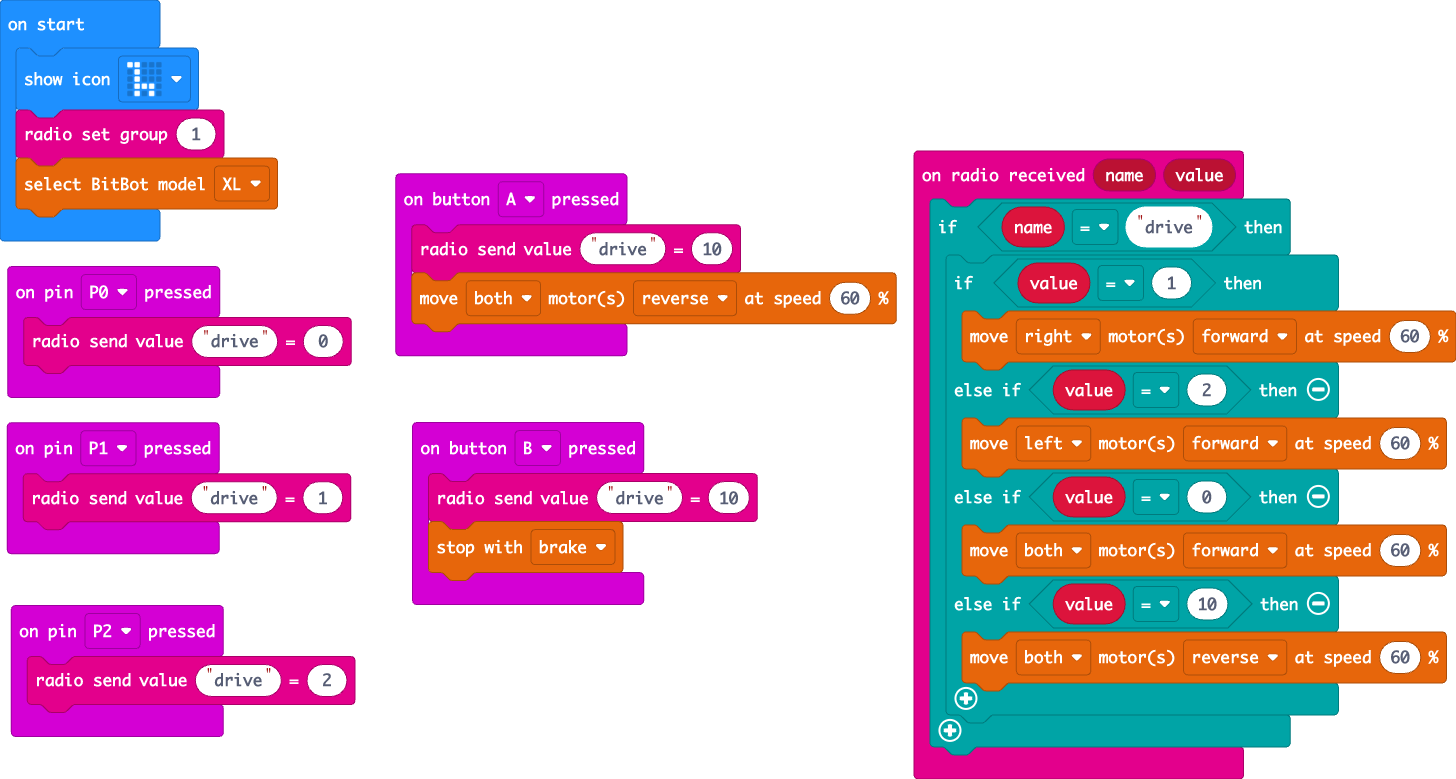
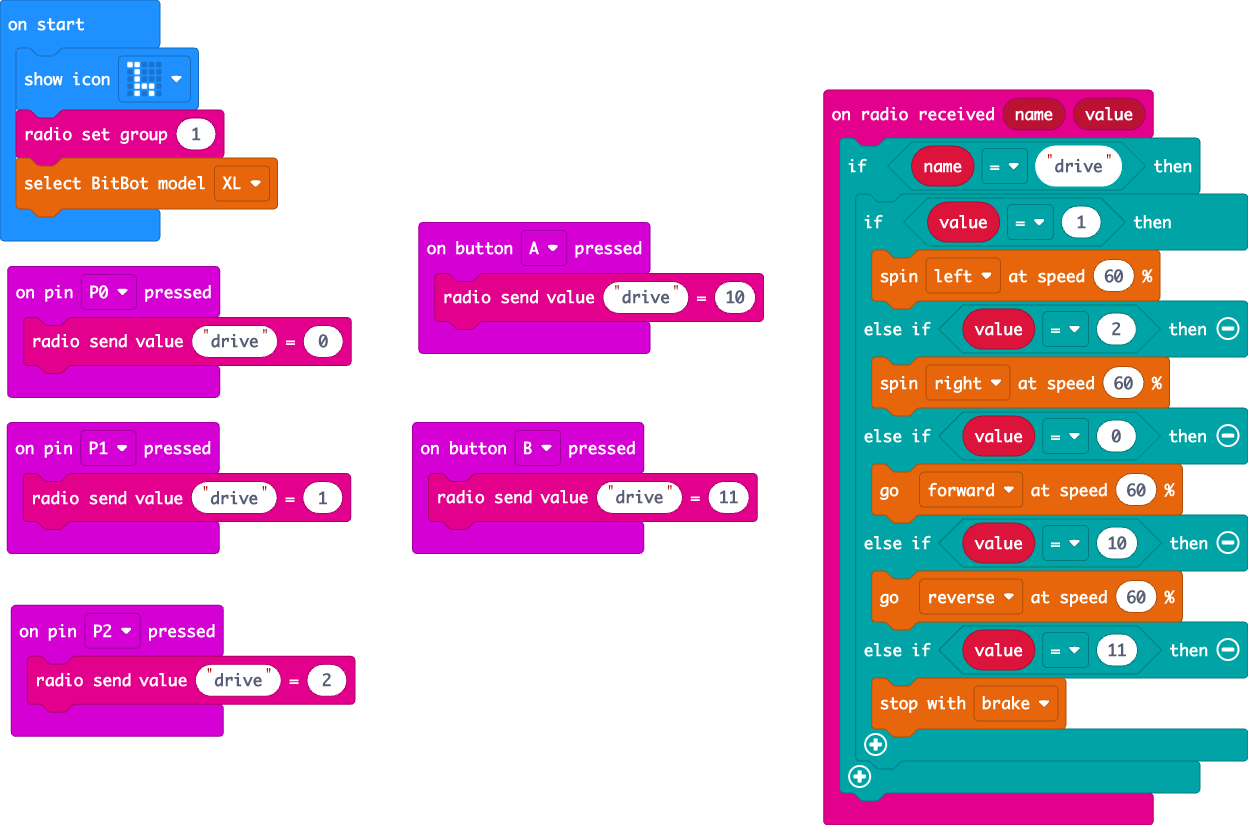
controls work

diff --git a/main.ts b/main.ts
@@ -3,14 +3,12 @@ input.onPinPressed(TouchPin.P0, function () {
 })
 input.onButtonPressed(Button.A, function () {
     radio.sendValue("drive", 10)
-    bitbot.move(BBMotor.Both, BBDirection.Reverse, 60)
 })
 input.onPinPressed(TouchPin.P2, function () {
     radio.sendValue("drive", 2)
 })
 input.onButtonPressed(Button.B, function () {
-    radio.sendValue("drive", 10)
-    bitbot.stop(BBStopMode.Brake)
+    radio.sendValue("drive", 11)
 })
 input.onPinPressed(TouchPin.P1, function () {
     radio.sendValue("drive", 1)
@@ -18,13 +16,15 @@ input.onPinPressed(TouchPin.P1, function () {
 radio.onReceivedValue(function (name, value) {
     if (name == "drive") {
         if (value == 1) {
-            bitbot.move(BBMotor.Right, BBDirection.Forward, 60)
+            bitbot.rotate(BBRobotDirection.Left, 60)
         } else if (value == 2) {
-            bitbot.move(BBMotor.Left, BBDirection.Forward, 60)
+            bitbot.rotate(BBRobotDirection.Right, 60)
         } else if (value == 0) {
-            bitbot.move(BBMotor.Both, BBDirection.Forward, 60)
+            bitbot.go(BBDirection.Forward, 60)
         } else if (value == 10) {
-            bitbot.move(BBMotor.Both, BBDirection.Reverse, 60)
+            bitbot.go(BBDirection.Reverse, 60)
+        } else if (value == 11) {
+            bitbot.stop(BBStopMode.Brake)
         }
     }
 })
